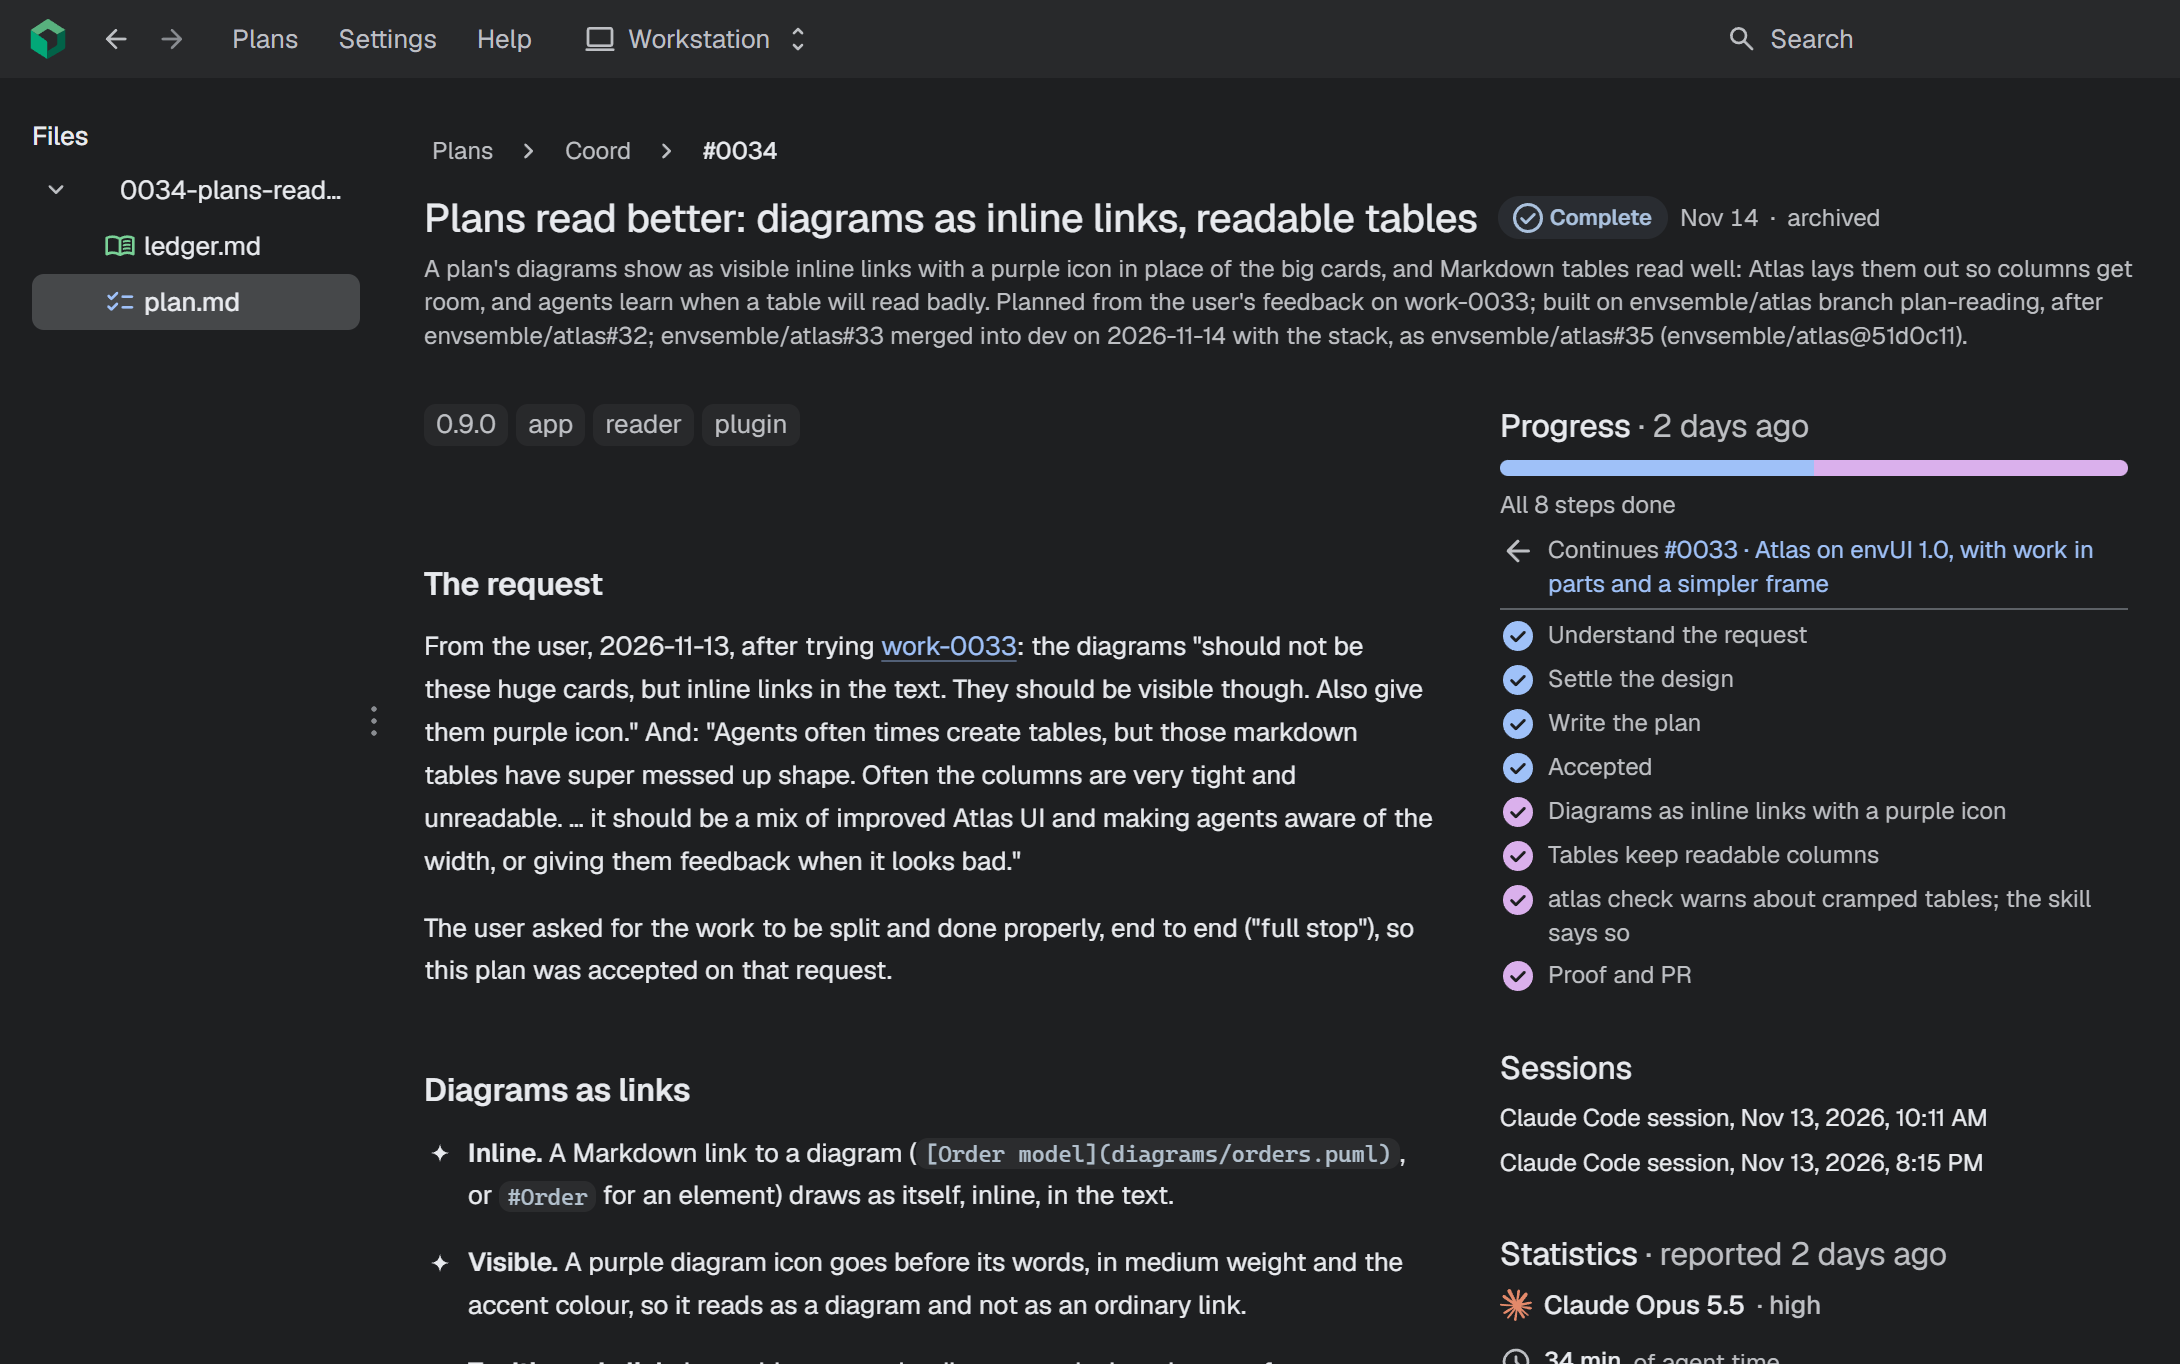
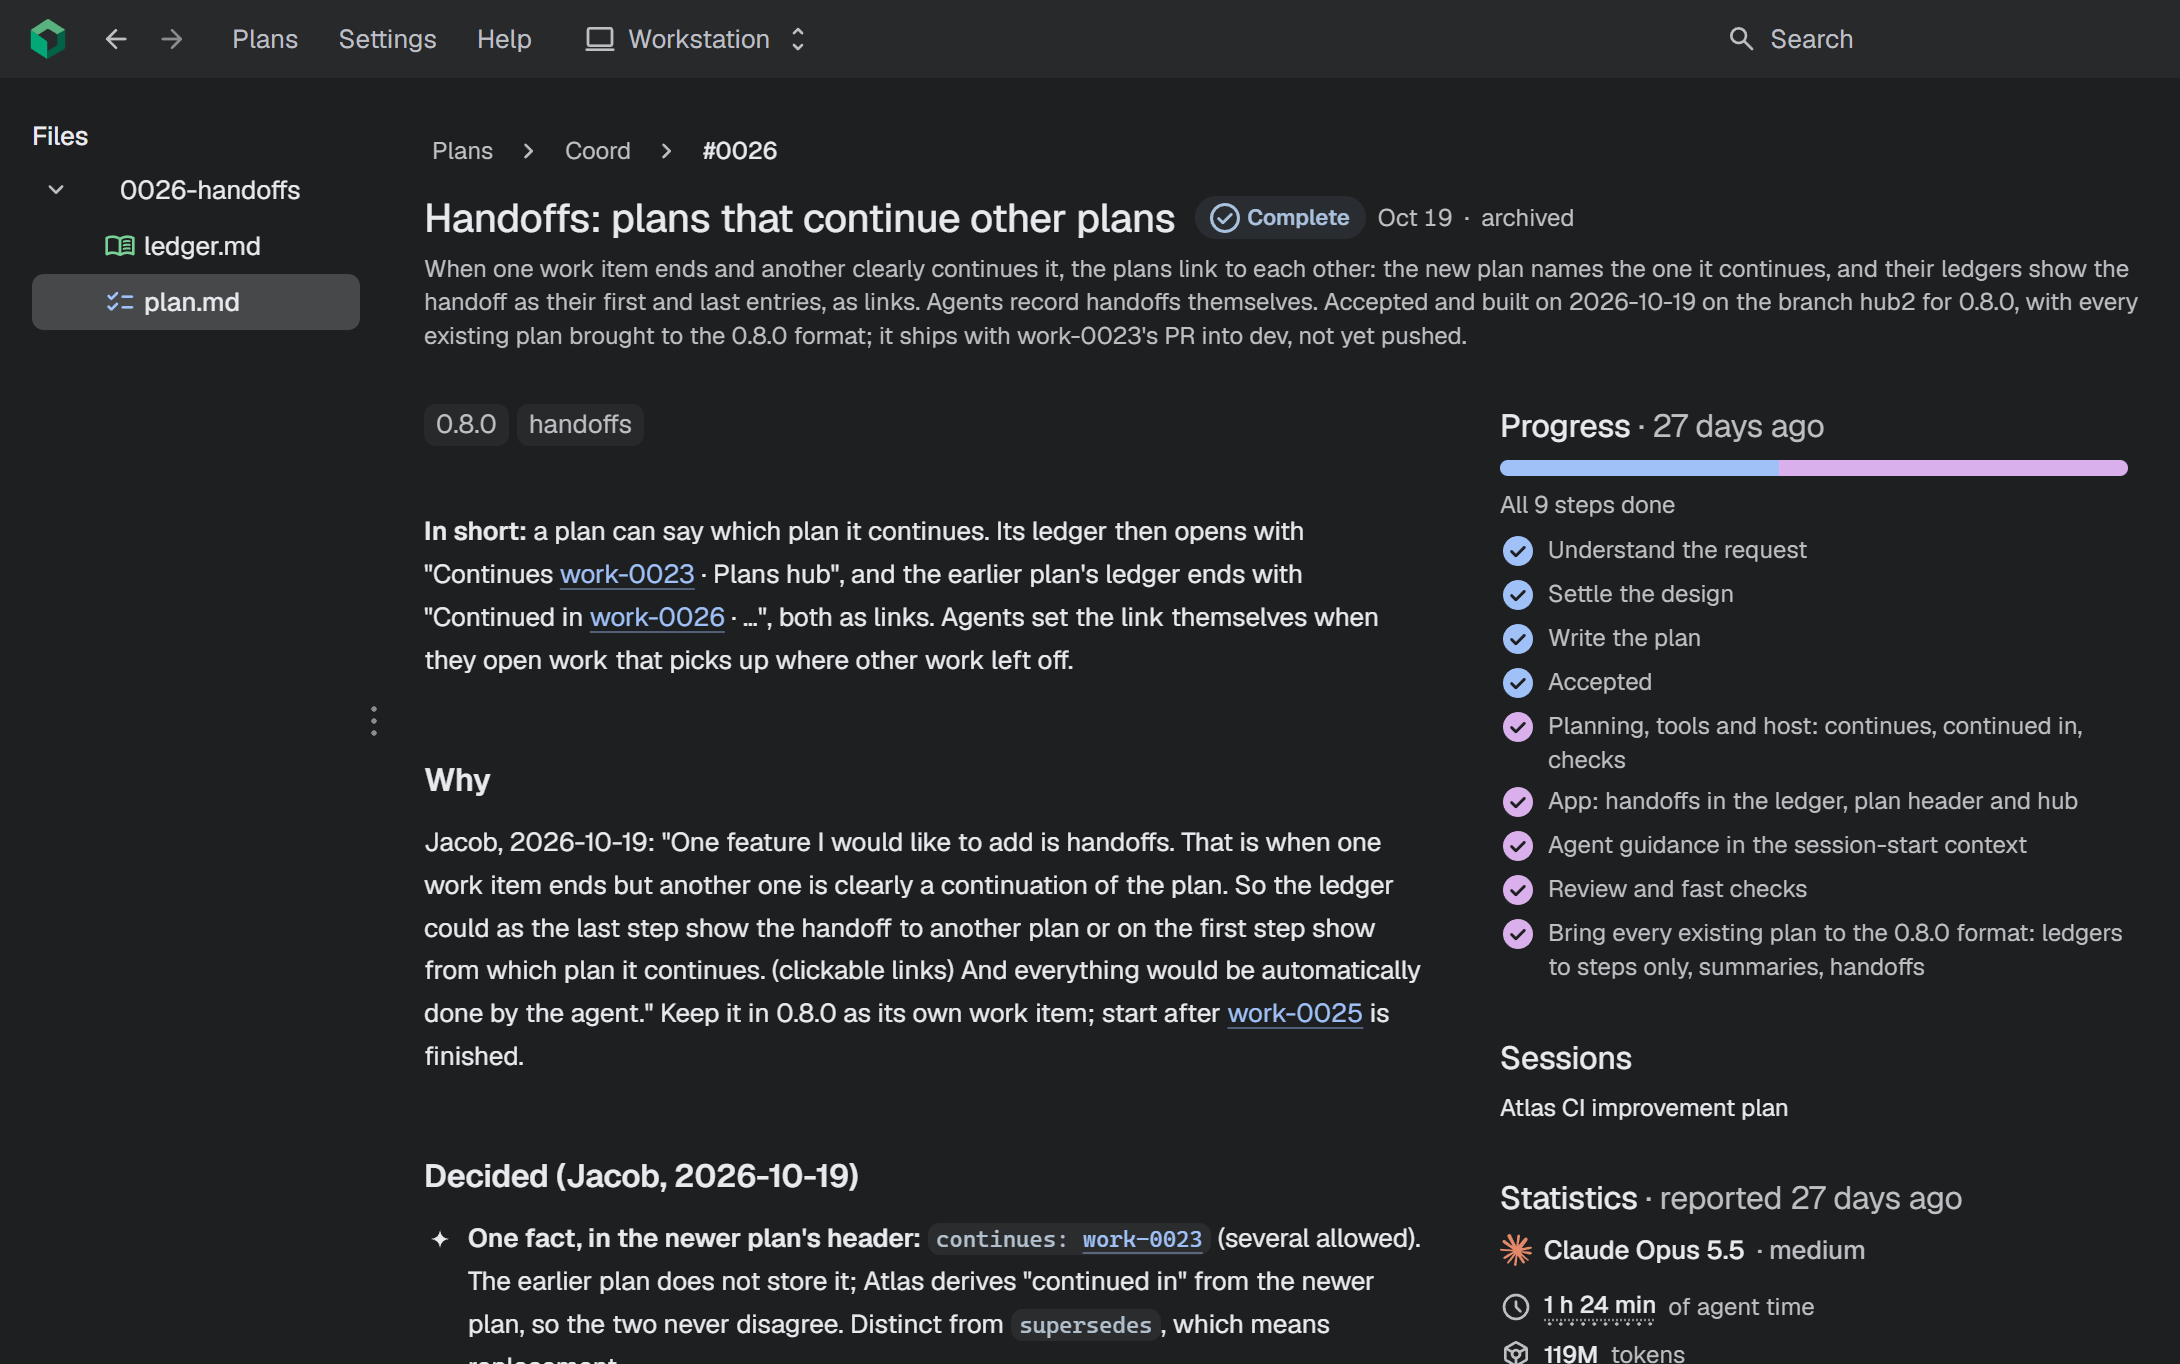
Site: council round 7 - the plan slide on #0026, plain prose without hashes, and a crisp frame edge on the gray page

diff --git a/site/src/App.tsx b/site/src/App.tsx
@@ -83,7 +83,7 @@ const screenshots: { key: string; label: string; text: ReactNode; shot: string; 
   { key: 'turn', label: 'Shows which plans are Your turn', text: <>Shows which plans are <State kind="turn">Your turn</State></>,
     shot: hub, focus: '0%', alt: "Coord's own plans: Your turn first, each saying what to do, then Waiting and Later, with the models that worked on them." },
   { key: 'plan', label: 'Grills you until the plan goes Draft to Accepted', text: <>Grills you until the plan goes <span className="nowrap"><State kind="draft">Draft</State> → <State kind="accepted">Accepted</State></span></>,
-    shot: plan, focus: '38%', alt: "One of Coord's own plans, complete: what the user asked for in their own words, and its steps from understanding the request to accepted and done." },
+    shot: plan, focus: '38%', alt: "One of Coord's own plans, complete: what it does in short, why the user asked for it in their own words, and its steps from understanding the request to accepted and done." },
   { key: 'diagram', label: 'Captures your code and database as a class diagram', text: <>Captures your code and database as a <Ref kind="diagram">class diagram</Ref></>,
     shot: diagram, focus: '67%', alt: "Coord's own home database captured as a diagram: projects, sessions and the agents' reports, with their columns and relations." },
   { key: 'statistics', label: "Counts every model's agent time and tokens", text: <>Counts every model's agent time and tokens</>,

diff --git a/site/src/site.css b/site/src/site.css
@@ -178,11 +178,12 @@ h1 {
 .screenshot {
   display: grid;
   overflow: hidden;
-  border: 1px solid rgb(232 234 238 / 0.12);
+  border: 1px solid rgb(255 255 255 / 0.14);
   border-radius: 0.875rem;
-  /* A light top edge, as a window catching light, envUI's raised shadow in its dark theme (a contact
+  /* A light hairline inside a dark ring keeps the window's edge crisp on a page of nearly its own
+     gray; then a light top edge, as a window catching light, envUI's raised shadow in its dark theme (a contact
      edge and a soft fall-off below), and a deep, wide shadow that lifts it off the page. */
-  box-shadow: inset 0 1px 0 rgb(255 255 255 / 0.06), 0 24px 48px -20px rgb(0 0 0 / 0.45), 0 1px 2px oklch(from var(--background) calc(l * 0.25) c h / 0.5), 0 12px 32px -10px oklch(from var(--background) calc(l * 0.8) c h / 0.85);
+  box-shadow: inset 0 1px 0 rgb(255 255 255 / 0.06), 0 0 0 1px rgb(0 0 0 / 0.45), 0 24px 48px -20px rgb(0 0 0 / 0.45), 0 1px 2px oklch(from var(--background) calc(l * 0.25) c h / 0.5), 0 12px 32px -10px oklch(from var(--background) calc(l * 0.8) c h / 0.85);
 }
 
 .screenshot img { grid-area: 1 / 1; display: block; width: 100%; height: auto; opacity: 0; transition: opacity 600ms ease; }
